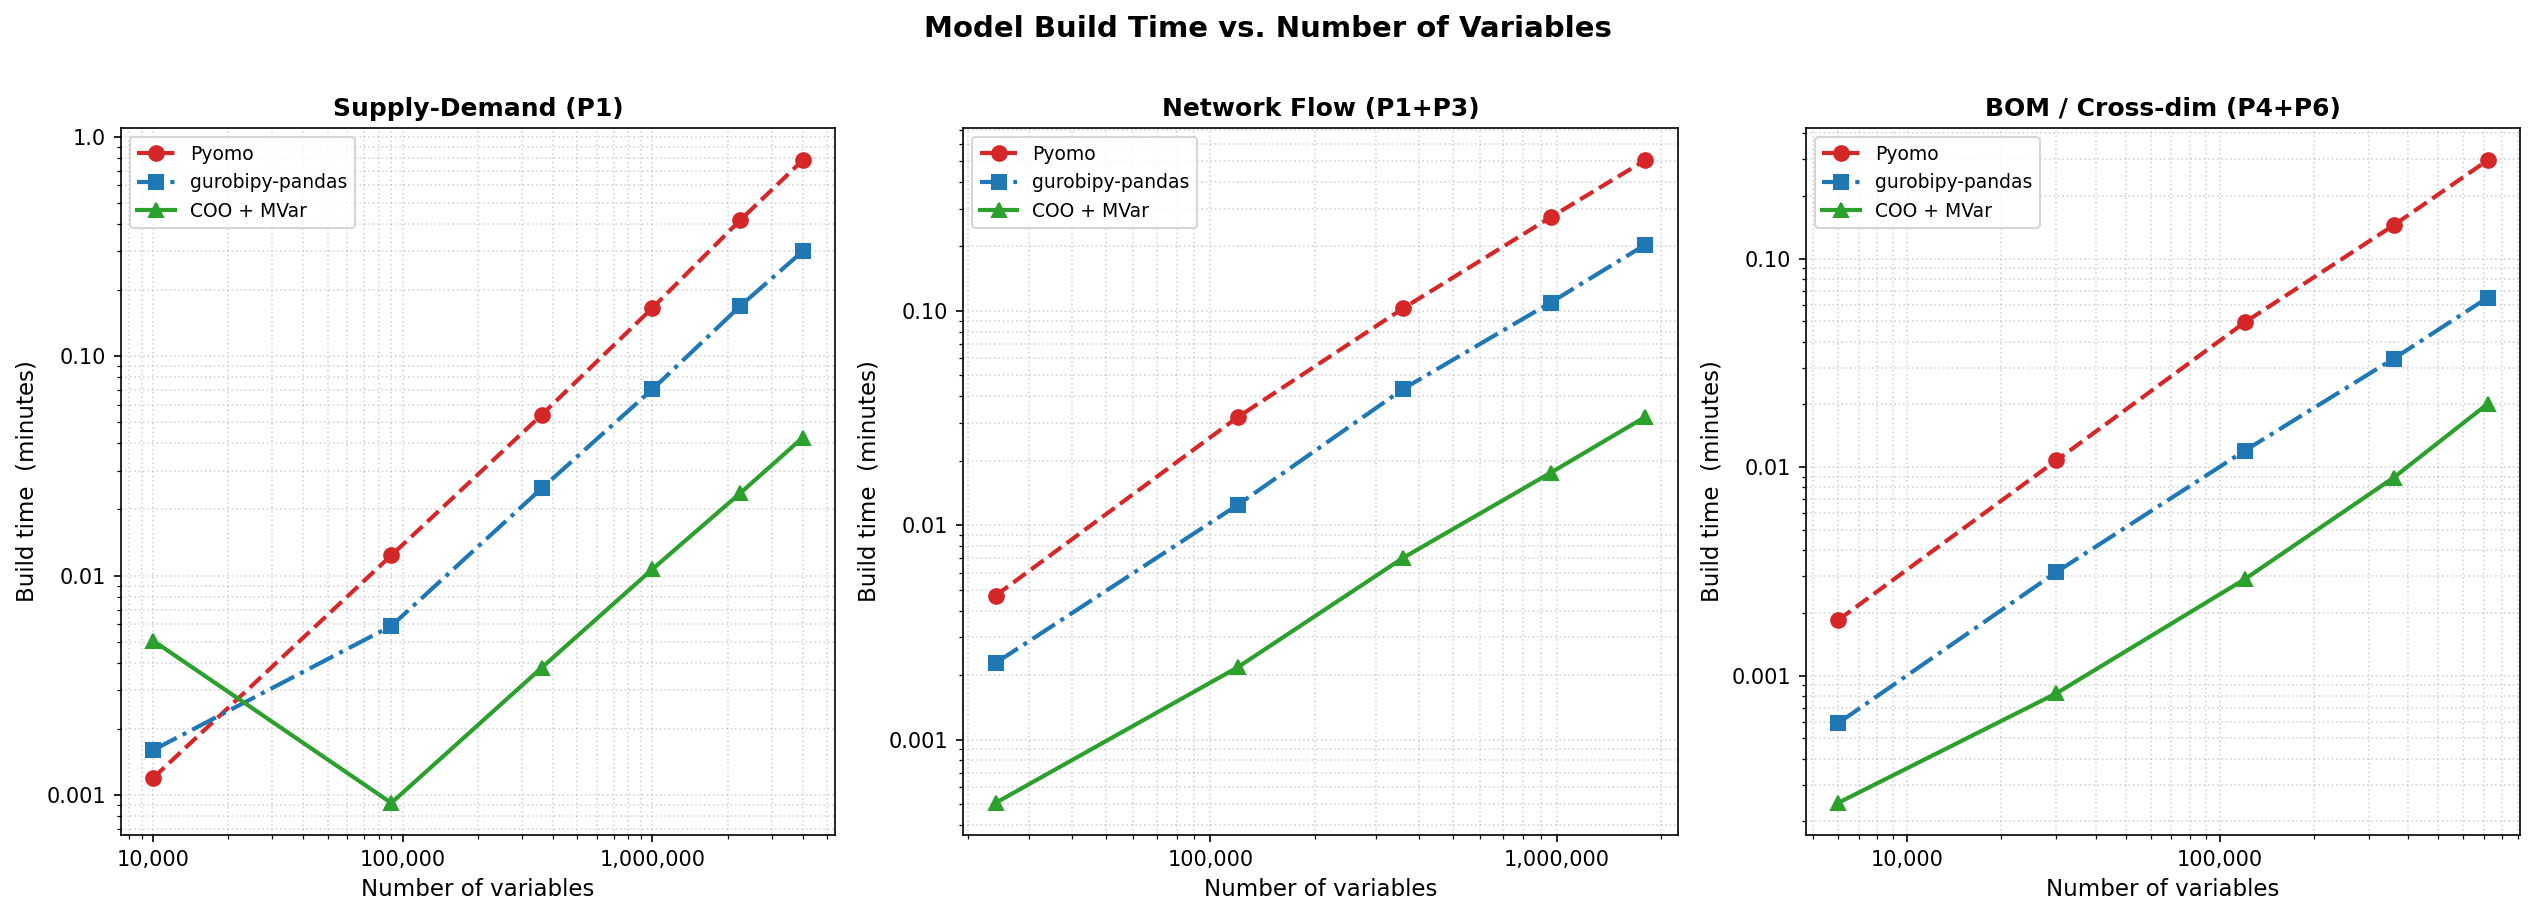
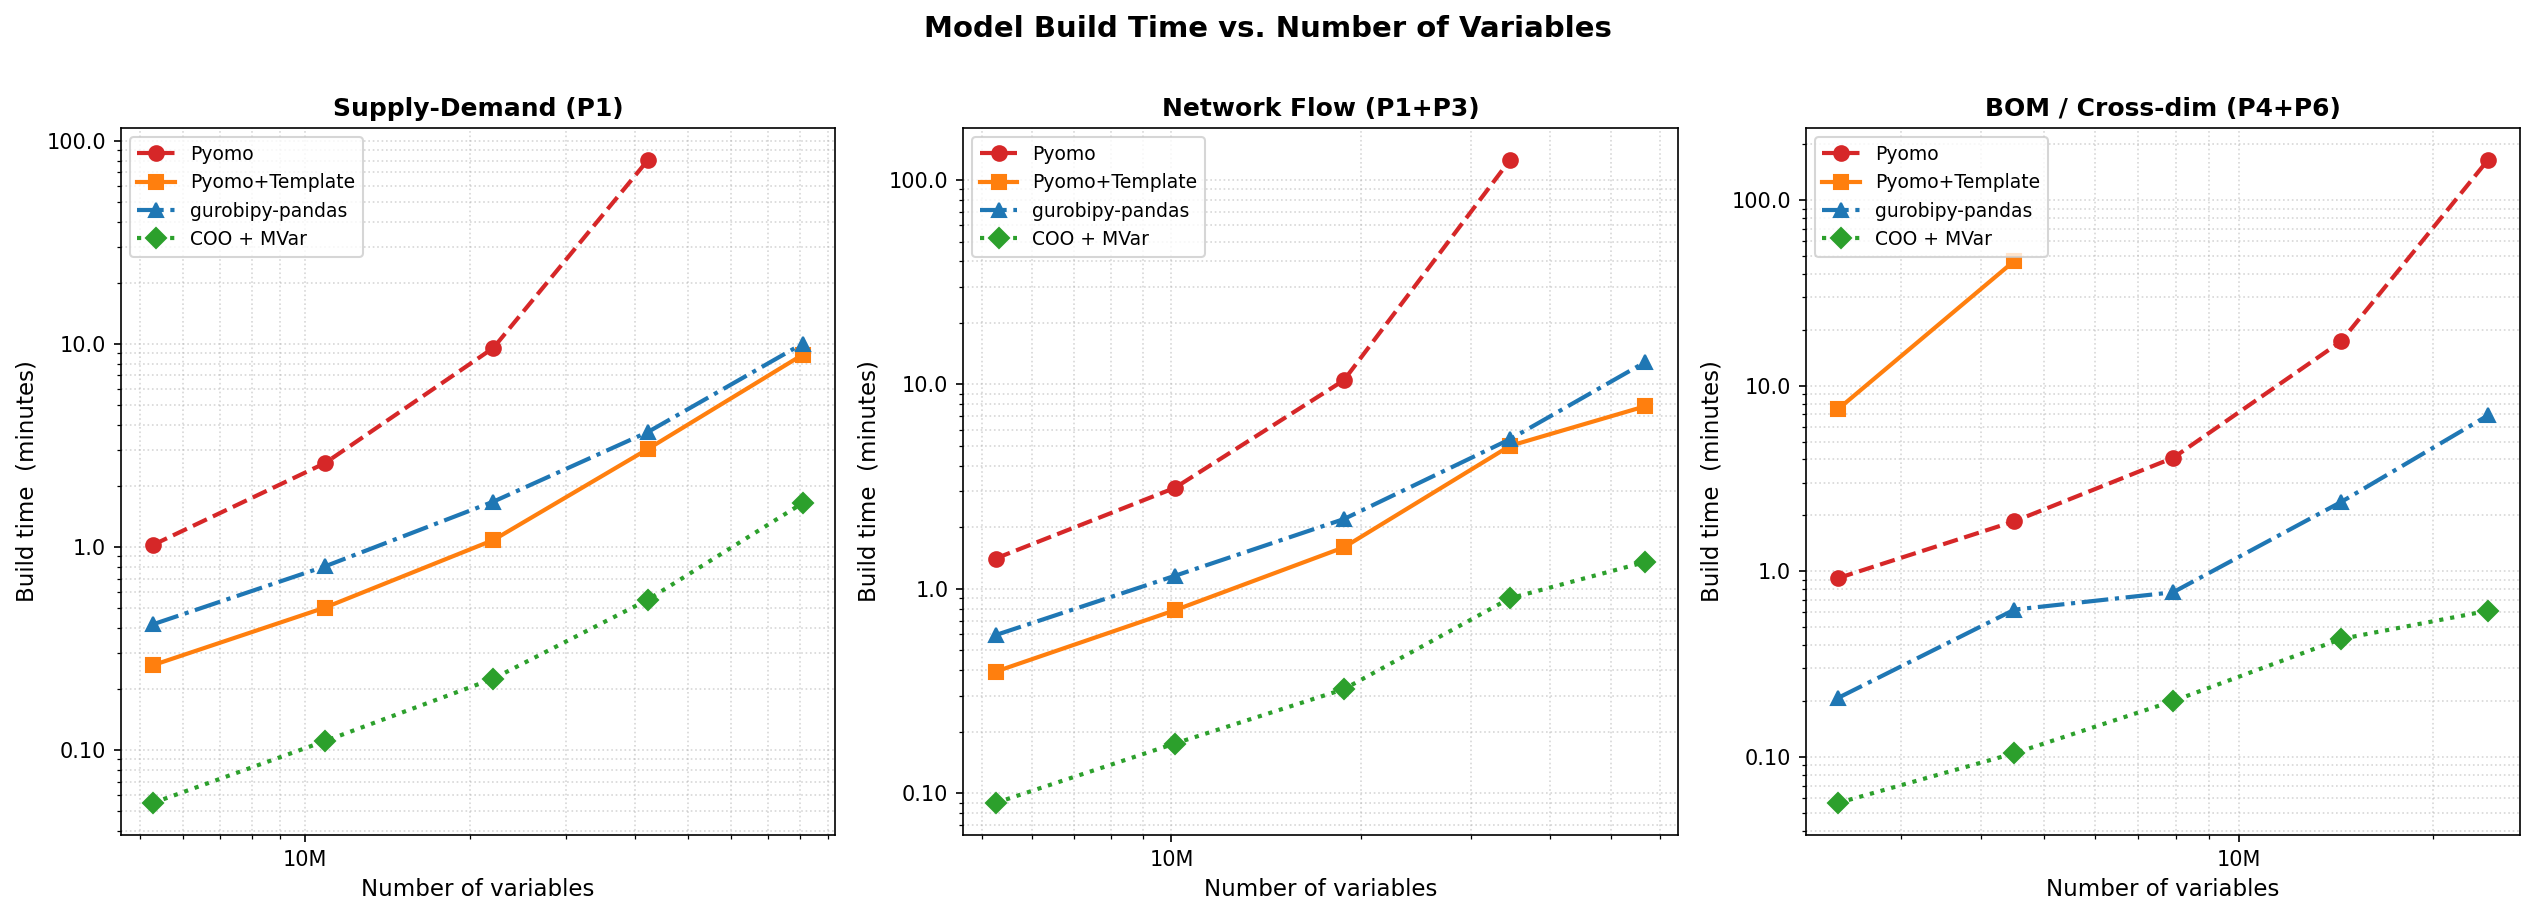
Add Pyomo+Template (TEMPLATIZE_* + gurobi_direct_v2) as fourth benchmark method
Adds `_make_template_direct_builder` which mirrors what `gurobi_direct_v2` does
internally: flip TEMPLATIZE_CONSTRAINTS/OBJECTIVES before ConcreteModel
construction, then compile via `LinearStandardFormCompiler` + `addMVar`/
`addMConstr` — bypassing the solver plugin framework entirely.

Refactors each problem's build function into a model-only variant (returns
ConcreteModel) and a solver-integration wrapper, so the translator and template
paths both receive a pure Pyomo model function for AST parsing and execution
respectively.

Key results across three problem types (P1, P1+P3, P4+P6):
- Pyomo has super-linear scaling; both Template and COO+MVar scale O(n)
- Pyomo+Template is ~5× slower than COO+MVar for plain-set constraints (P1, P1+P3)
  due to Pyomo component construction overhead (one Python VarData per variable)
- Pyomo+Template is catastrophically slow for indexed-set constraints (P4+P6):
  8–25× slower than vanilla Pyomo at small sizes, fails at larger sizes; the
  LinearStandardFormCompiler path is far worse than gurobi_persistent for
  non-templatizable sparse cross-dimensional constraints

diff --git a/benchmark_comprehensive.py b/benchmark_comprehensive.py
@@ -1,15 +1,17 @@
 """
 Comprehensive build-time benchmark
 ===================================
-Compares three model-construction paths across three problem types.
+Compares four model-construction paths across three problem types.
 Sizes are chosen so Pyomo starts at ~1 minute and grows to ~15 minutes.
-Expected total wall-clock time: 1.5 – 2.5 hours.
+Expected total wall-clock time: 2 – 3 hours.
 
   ① Pyomo               — ConcreteModel + rule evaluation + gurobi_persistent
-  ② gurobipy-pandas     — translator-old.translate() → gppd.add_vars / add_constrs
-  ③ COO / MVar          — translator.translate()     → addMVar + addMConstr
+  ② Pyomo+Template      — ConcreteModel + TEMPLATIZE_* + LinearStandardFormCompiler
+                          + addMVar/addMConstr  (mirrors gurobi_direct_v2 internals)
+  ③ gurobipy-pandas     — translator-old.translate() → gppd.add_vars / add_constrs
+  ④ COO / MVar          — translator.translate()     → addMVar + addMConstr
 
-All three methods are derived from the same Pyomo build function via translate().
+All methods are derived from the same Pyomo model-building function.
 
 Output
 ------
@@ -26,6 +28,8 @@ import time
 from dataclasses import dataclass
 from typing import Callable
 
+import operator
+
 import gurobipy as gp
 import numpy as np
 import matplotlib
@@ -34,6 +38,9 @@ import matplotlib.pyplot as plt
 import matplotlib.ticker as ticker
 from pyomo.environ import SolverFactory
 import pyomo.environ as pyo
+from pyomo.repn.plugins.standard_form import LinearStandardFormCompiler
+from pyomo.core.base import constraint as _pyo_con_mod
+from pyomo.core.base import objective as _pyo_obj_mod
 
 import translator     as _new_tr   # COO + MVar
 import importlib.util
@@ -50,7 +57,8 @@ def _load_old_translator():
 
 _old_tr = _load_old_translator()
 
-PYOMO_TIMEOUT_MIN = 25.0   # skip remaining Pyomo sizes once one exceeds this
+PYOMO_TIMEOUT_MIN    = 25.0   # skip remaining Pyomo sizes once one exceeds this
+TEMPLATE_TIMEOUT_MIN = 10.0   # skip remaining Pyomo+Template sizes once one exceeds this
 
 
 # ===========================================================================
@@ -75,6 +83,44 @@ def _timed(fn: Callable, data: dict) -> tuple[object, float]:
     return result, time.perf_counter() - t0
 
 
+def _make_template_direct_builder(pyomo_model_fn: Callable) -> Callable:
+    """Mirrors what gurobi_direct_v2 does internally:
+      1. Flip TEMPLATIZE_* so Pyomo stores one shared template per constraint block
+         instead of N per-row expression trees.
+      2. Compile via LinearStandardFormCompiler (same call as GurobiDirect._create_solver_model).
+      3. Push the single sparse matrix to Gurobi via addMVar + addMConstr.
+    pyomo_model_fn must return a pyo.ConcreteModel (not a gurobipy Model).
+    """
+    def builder(data: dict):
+        saved_con = _pyo_con_mod.TEMPLATIZE_CONSTRAINTS
+        saved_obj = _pyo_obj_mod.TEMPLATIZE_OBJECTIVES
+        _pyo_con_mod.TEMPLATIZE_CONSTRAINTS = True
+        _pyo_obj_mod.TEMPLATIZE_OBJECTIVES = True
+        try:
+            m = pyomo_model_fn(data)
+        finally:
+            _pyo_con_mod.TEMPLATIZE_CONSTRAINTS = saved_con
+            _pyo_obj_mod.TEMPLATIZE_OBJECTIVES = saved_obj
+
+        repn = LinearStandardFormCompiler().write(m, mixed_form=True, set_sense=None)
+
+        inf, ninf = float('inf'), float('-inf')
+        bounds = list(map(operator.attrgetter('bounds'), repn.columns))
+        lb = [ninf if b[0] is None else b[0] for b in bounds]
+        ub = [inf  if b[1] is None else b[1] for b in bounds]
+        sense_type = list('=<>')   # sense codes: 0→'=', 1→'<', -1→'>'
+        sense = [sense_type[r[1]] for r in repn.rows]
+
+        gm = gp.Model()
+        gm.setParam("OutputFlag", 0)
+        x = gm.addMVar(len(repn.columns), lb=lb, ub=ub, name="x")
+        gm.addMConstr(repn.A, x, sense, repn.rhs)
+        gm.update()
+        return gm
+
+    return builder
+
+
 # ===========================================================================
 # PROBLEM A — Supply-Demand  (P1)
 # Variables:  x[I × J]         n_i * n_j
@@ -92,7 +138,7 @@ def gen_supply_demand(n_i: int, n_j: int, seed: int = 1) -> dict:
     }
 
 
-def sd_pyomo_build(data: dict):
+def sd_pyomo_model(data: dict) -> pyo.ConcreteModel:
     m = pyo.ConcreteModel()
     m.I      = pyo.Set(initialize=data["I"])
     m.J      = pyo.Set(initialize=data["J"])
@@ -107,7 +153,11 @@ def sd_pyomo_build(data: dict):
     def demand_rule(m, j):
         return sum(m.x[i, j] for i in m.I) >= m.Demand[j]
     m.demand_constr = pyo.Constraint(m.J, rule=demand_rule)
+    return m
 
+
+def sd_pyomo_build(data: dict):
+    m = sd_pyomo_model(data)
     opt = SolverFactory("gurobi_persistent")
     opt.set_instance(m)
     return opt._solver_model
@@ -171,7 +221,7 @@ def gen_network_flow(n_nodes: int, avg_degree: int, n_k: int, seed: int = 2) -> 
     }
 
 
-def nf_pyomo_build(data: dict):
+def nf_pyomo_model(data: dict) -> pyo.ConcreteModel:
     m = pyo.ConcreteModel()
     m.N       = pyo.Set(initialize=data["Nodes"])
     m.K       = pyo.Set(initialize=data["Commodities"])
@@ -191,7 +241,11 @@ def nf_pyomo_build(data: dict):
         flow_in  = sum(m.x[i, node, k] for i in m.InArcs[node])
         return flow_out - flow_in == m.Dem[node, k]
     m.flow_constr = pyo.Constraint(m.N, m.K, rule=flow_rule)
+    return m
 
+
+def nf_pyomo_build(data: dict):
+    m = nf_pyomo_model(data)
     opt = SolverFactory("gurobi_persistent")
     opt.set_instance(m)
     return opt._solver_model
@@ -240,7 +294,7 @@ def gen_bom(n_p: int, n_c: int, n_t: int, avg_uses: int = 3, seed: int = 3) -> d
     }
 
 
-def bom_pyomo_build(data: dict):
+def bom_pyomo_model(data: dict) -> pyo.ConcreteModel:
     m = pyo.ConcreteModel()
     m.P              = pyo.Set(initialize=data["Products"])
     m.C              = pyo.Set(initialize=data["Components"])
@@ -259,7 +313,11 @@ def bom_pyomo_build(data: dict):
         return m.buy[c, t] == sum(m.BOM[p, c] * m.build[p, t]
                                   for p in m.ProdsUsingComp[c])
     m.comp_constr = pyo.Constraint(m.C, m.T, rule=comp_rule)
+    return m
 
+
+def bom_pyomo_build(data: dict):
+    m = bom_pyomo_model(data)
     opt = SolverFactory("gurobi_persistent")
     opt.set_instance(m)
     return opt._solver_model
@@ -281,17 +339,19 @@ BOM_SIZES = [
 
 @dataclass
 class ProblemSpec:
-    name:      str
-    pyomo_fn:  Callable
-    gen_fn:    Callable
-    sizes:     list
-    n_vars_fn: Callable
+    name:           str
+    pyomo_fn:       Callable   # returns gurobipy Model via gurobi_persistent
+    pyomo_model_fn: Callable   # returns pyo.ConcreteModel (for templatized path)
+    gen_fn:         Callable
+    sizes:          list
+    n_vars_fn:      Callable
 
 
 PROBLEMS = [
     ProblemSpec(
         name="Supply-Demand (P1)",
         pyomo_fn=sd_pyomo_build,
+        pyomo_model_fn=sd_pyomo_model,
         gen_fn=gen_supply_demand,
         sizes=SD_SIZES,
         n_vars_fn=lambda n_i, n_j, seed: n_i * n_j,
@@ -299,6 +359,7 @@ PROBLEMS = [
     ProblemSpec(
         name="Network Flow (P1+P3)",
         pyomo_fn=nf_pyomo_build,
+        pyomo_model_fn=nf_pyomo_model,
         gen_fn=gen_network_flow,
         sizes=NF_SIZES,
         n_vars_fn=lambda n_nodes, avg_degree, n_k, seed: n_nodes * avg_degree * n_k,
@@ -306,6 +367,7 @@ PROBLEMS = [
     ProblemSpec(
         name="BOM / Cross-dim (P4+P6)",
         pyomo_fn=bom_pyomo_build,
+        pyomo_model_fn=bom_pyomo_model,
         gen_fn=gen_bom,
         sizes=BOM_SIZES,
         n_vars_fn=lambda n_p, n_c, n_t, seed: (n_p + n_c) * n_t,
@@ -314,6 +376,7 @@ PROBLEMS = [
 
 METHODS = [
     ("Pyomo",           "#d62728"),
+    ("Pyomo+Template",  "#ff7f0e"),
     ("gurobipy-pandas", "#1f77b4"),
     ("COO + MVar",      "#2ca02c"),
 ]
@@ -325,25 +388,33 @@ METHODS = [
 
 def run_benchmark(spec: ProblemSpec) -> list[dict]:
     try:
-        gppd_builder = _make_builder(spec.pyomo_fn, _old_tr)
+        tpl_builder = _make_template_direct_builder(spec.pyomo_model_fn)
+    except Exception as e:
+        print(f"  [WARN] Pyomo+Template builder failed: {e}")
+        tpl_builder = None
+
+    try:
+        gppd_builder = _make_builder(spec.pyomo_model_fn, _old_tr)
     except Exception as e:
         print(f"  [WARN] gurobipy-pandas translation failed: {e}")
         gppd_builder = None
 
     try:
-        mvar_builder = _make_builder(spec.pyomo_fn, _new_tr)
+        mvar_builder = _make_builder(spec.pyomo_model_fn, _new_tr)
     except Exception as e:
         print(f"  [WARN] COO+MVar translation failed: {e}")
         mvar_builder = None
 
     builders = {
         "Pyomo":           spec.pyomo_fn,
+        "Pyomo+Template":  tpl_builder,
         "gurobipy-pandas": gppd_builder,
         "COO + MVar":      mvar_builder,
     }
 
     rows = []
-    pyomo_skipped = False
+    pyomo_skipped    = False
+    template_skipped = False
 
     for size_label, kwargs in spec.sizes:
         data   = spec.gen_fn(**kwargs)
@@ -358,9 +429,11 @@ def run_benchmark(spec: ProblemSpec) -> list[dict]:
                 skip_reason = "N/A"
             elif method_label == "Pyomo" and pyomo_skipped:
                 skip_reason = "TIMEOUT"
+            elif method_label == "Pyomo+Template" and template_skipped:
+                skip_reason = "TIMEOUT"
 
             if skip_reason:
-                print(f"    {method_label:<20s} {skip_reason}")
+                print(f"    {method_label:<22s} {skip_reason}")
                 rows.append({"problem": spec.name, "method": method_label,
                              "n_vars": n_vars, "build_s": float("nan"), "skipped": True})
                 continue
@@ -369,17 +442,19 @@ def run_benchmark(spec: ProblemSpec) -> list[dict]:
                 _, elapsed = _timed(builder, data)
                 build_s = elapsed
             except Exception as e:
-                print(f"    {method_label:<20s} ERROR: {e}")
+                print(f"    {method_label:<22s} ERROR: {e}")
                 rows.append({"problem": spec.name, "method": method_label,
                              "n_vars": n_vars, "build_s": float("nan"), "skipped": True})
                 continue
 
             if method_label == "Pyomo" and build_s / 60.0 > PYOMO_TIMEOUT_MIN:
                 pyomo_skipped = True
+            if method_label == "Pyomo+Template" and build_s / 60.0 > TEMPLATE_TIMEOUT_MIN:
+                template_skipped = True
 
             rows.append({"problem": spec.name, "method": method_label,
                          "n_vars": n_vars, "build_s": build_s, "skipped": False})
-            print(f"    {method_label:<20s} {build_s / 60.0:>8.3f} min")
+            print(f"    {method_label:<22s} {build_s / 60.0:>8.3f} min")
 
     return rows
 
@@ -394,8 +469,8 @@ def plot_results(all_rows: list[dict], out_path: str = "benchmark_results.png"):
                  fontsize=14, fontweight="bold", y=1.01)
 
     colors  = {m: c for m, c in METHODS}
-    markers = {"Pyomo": "o", "gurobipy-pandas": "s", "COO + MVar": "^"}
-    ls_map  = {"Pyomo": "--", "gurobipy-pandas": "-.", "COO + MVar": "-"}
+    markers = {"Pyomo": "o", "Pyomo+Template": "s", "gurobipy-pandas": "^", "COO + MVar": "D"}
+    ls_map  = {"Pyomo": "--", "Pyomo+Template": "-", "gurobipy-pandas": "-.", "COO + MVar": ":"}
 
     for ax, spec in zip(axes, PROBLEMS):
         rows = [r for r in all_rows if r["problem"] == spec.name]
